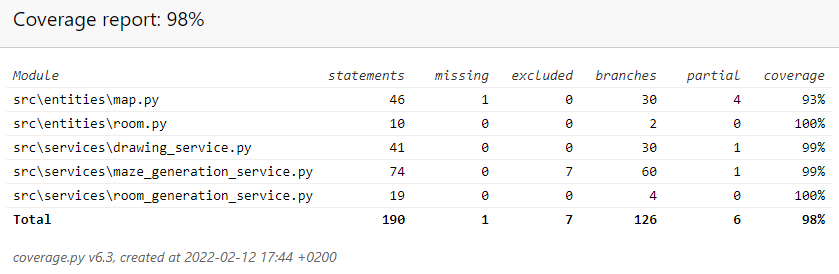
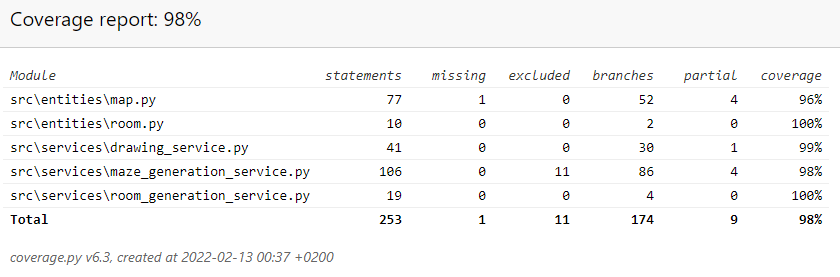
Improved features and created tests for the new additions

diff --git a/src/services/maze_generation_service.py b/src/services/maze_generation_service.py
@@ -78,8 +78,34 @@ class MazeGenerationService:
 
         self._prune_disattached_cells()
 
-    def connect_maze_to_rooms(self):
-        """Connect passage cells to room cells."""
+    def connect_maze_to_rooms(self, odds_of_loops=0.5):
+        """Connect passage cells to room cells, or rooms to other rooms
+
+        Args:
+            odds_of_loops: The odds of the dungeon having loops, between 0 and 1
+        """
+
+        if odds_of_loops < 0: # pragma: no cover
+            odds_of_loops = 0
+        elif odds_of_loops > 1: # pragma: no cover
+            odds_of_loops = 1
+        connections = self._get_connections()
+        rand_connection = random.choice(list(connections.keys()))
+        origin_region = connections[rand_connection][1]
+        self._map.occupy(rand_connection[0], rand_connection[1])
+        self._maze_cells[rand_connection[0]][rand_connection[1]] = 'p'
+        connections.pop(rand_connection)
+        """while connections:
+            rand_connection = random.choice(list(connections.keys()))
+            if (connections[rand_connection][0] == origin_region
+            and connections[rand_connection][1] == origin_region):
+                if random.random() < odds_of_loops:
+                    self._map.occupy(rand_connection[0], rand_connection[1])
+                    self._maze_cells[rand_connection[0]][rand_connection[1]] = 'p'
+            else:
+                self._map.occupy(rand_connection[0], rand_connection[1])
+                self._maze_cells[rand_connection[0]][rand_connection[1]] = 'p'
+            connections.pop(rand_connection)""" # Commented out until issue can be figured out
 
     def _get_connections(self):
         """Find all room-to-room or passage-to-room connections.
@@ -88,11 +114,16 @@ class MazeGenerationService:
         the connections and the values are tuples with IDs of the two regions the connection
         connects
         """
+
+        connections = {}
         for y_coord in range(self._map.map_height):
             for x_coord in range(self._map.map_width):
                 if (self._maze_cells[x_coord][y_coord] == 'w'
                 and self._count_adjacent_passages((x_coord, y_coord)) == 2):
-                    pass
+                    connection = self._get_connection((x_coord, y_coord))
+                    if connection:
+                        connections[(x_coord, y_coord)] = connection
+        return connections
 
     def _add_wall(self, coordinates):
         """Adds a wall to the specified coordinates
@@ -131,16 +162,49 @@ class MazeGenerationService:
         """
 
         passage_num = 0
-        if self._maze_cells[coordinates[0]][coordinates[1]+1] in ('p', 'r'):
-            passage_num += 1
-        if self._maze_cells[coordinates[0]][coordinates[1]-1] in ('p', 'r'):
-            passage_num += 1
-        if self._maze_cells[coordinates[0]+1][coordinates[1]] in ('p', 'r'):
-            passage_num += 1
-        if self._maze_cells[coordinates[0]-1][coordinates[1]] in ('p', 'r'):
-            passage_num += 1
+        if coordinates[1] + 1 < self._map.map_height and coordinates[1] - 1 >= 0:
+            if self._maze_cells[coordinates[0]][coordinates[1]+1] in ('p', 'r'):
+                passage_num += 1
+            if self._maze_cells[coordinates[0]][coordinates[1]-1] in ('p', 'r'):
+                passage_num += 1
+        if coordinates[0] + 1 < self._map.map_width and coordinates[0] - 1 >= 0:
+            if self._maze_cells[coordinates[0]+1][coordinates[1]] in ('p', 'r'):
+                passage_num += 1
+            if self._maze_cells[coordinates[0]-1][coordinates[1]] in ('p', 'r'):
+                passage_num += 1
 
         return passage_num
+
+    def _get_connection(self, coordinates):
+        """Checks whether the given cell is a connection between a room and a corridor or two rooms.
+
+        Args:
+            coordinates: (int, int) Tuple containing the coordinates of the cell to check
+
+        Returns: (int, int) Tuple containing the identifiers of the two regions
+        the connection connects, or None if the cell is not a connection
+        """
+
+        if self._maze_cells[coordinates[0]][coordinates[1]] == 'w':
+            if coordinates[1] + 1 < self._map.map_height and coordinates[1] - 1 > 0:
+                if (self._maze_cells[coordinates[0]][coordinates[1] + 1] in ('r', 'p')
+                and self._maze_cells[coordinates[0]][coordinates[1] - 1] == 'r'):
+                    return (self._map.cell_regions[(coordinates[0], coordinates[1] + 1)],
+                    self._map.cell_regions[(coordinates[0], coordinates[1] - 1)])
+                if (self._maze_cells[coordinates[0]][coordinates[1] - 1] in ('r', 'p')
+                and self._maze_cells[coordinates[0]][coordinates[1] + 1] == 'r'):
+                    return (self._map.cell_regions[(coordinates[0], coordinates[1] - 1)],
+                    self._map.cell_regions[(coordinates[0], coordinates[1] + 1)])
+            if coordinates[0] + 1 < self._map.map_width and coordinates[0] - 1 > 0:
+                if (self._maze_cells[coordinates[0] + 1][coordinates[1]] in ('r', 'p')
+                and self._maze_cells[coordinates[0] - 1][coordinates[1]] == 'r'):
+                    return (self._map.cell_regions[(coordinates[0] + 1, coordinates[1])],
+                    self._map.cell_regions[(coordinates[0] - 1, coordinates[1])])
+                if (self._maze_cells[coordinates[0] - 1][coordinates[1]] in ('r', 'p')
+                and self._maze_cells[coordinates[0] + 1][coordinates[1]] == 'r'):
+                    return (self._map.cell_regions[(coordinates[0] - 1, coordinates[1])],
+                    self._map.cell_regions[(coordinates[0] + 1, coordinates[1])])
+        return None
 
     def _find_starting_point(self):
         """Attempts to find a starting cell for a maze.

diff --git a/src/tests/services/test_maze_generation_service.py b/src/tests/services/test_maze_generation_service.py
@@ -76,3 +76,52 @@ class TestMazeGenerationService(unittest.TestCase):
         self.maze_generation_service.init_maze()
         self.maze_generation_service.generate_perfect_maze()
         self.assertNotEqual(self.maze_generation_service._maze_cells[2][2], 'p')
+
+    def test_a_passage_on_the_left_is_connected_to_a_room_on_the_right(self):
+        self.map.occupy(3,3)
+        self.maze_generation_service.init_maze()
+        self.maze_generation_service._add_passage((1,3))
+        self.assertEqual(self.maze_generation_service._get_connection((2,3)), (1,0))
+
+    def test_a_passage_on_the_right_is_connected_to_a_room_on_the_left(self):
+        self.map.occupy(1,3)
+        self.maze_generation_service.init_maze()
+        self.maze_generation_service._add_passage((3,3))
+        self.assertEqual(self.maze_generation_service._get_connection((2,3)), (1,0))
+
+    def test_a_passage_above_is_connected_to_a_room_below(self):
+        self.map.occupy(3,3)
+        self.maze_generation_service.init_maze()
+        self.maze_generation_service._add_passage((3,1))
+        self.assertEqual(self.maze_generation_service._get_connection((3,2)), (1,0))
+
+    def test_a_passage_below_is_connected_to_a_room_above(self):
+        self.map.occupy(3,1)
+        self.maze_generation_service.init_maze()
+        self.maze_generation_service._add_passage((3,3))
+        self.assertEqual(self.maze_generation_service._get_connection((3,2)), (1,0))
+
+    def test_non_walls_are_not_considered_connections(self):
+        self.maze_generation_service.init_maze()
+        self.maze_generation_service._maze_cells[1][1] = 'p'
+        self.maze_generation_service._maze_cells[1][3] = 'r'
+        self.assertIsNone(self.maze_generation_service._get_connection((1,2)))
+
+    def test_if_the_map_is_empty_there_are_no_connections(self):
+        self.maze_generation_service.init_maze()
+        self.assertEqual(len(self.maze_generation_service._get_connections()), 0)
+
+    def test_the_correct_number_of_connections_is_established(self):
+        self.map.occupy(1,1)
+        self.map.occupy(1,3)
+        self.map.occupy(3,1)
+        self.maze_generation_service.init_maze()
+        self.assertEqual(len(self.maze_generation_service._get_connections()), 2)
+
+    def test_initial_connection_is_correctly_drawn(self):
+        self.map.occupy(1,1)
+        self.map.occupy(1,3)
+        self.maze_generation_service.init_maze()
+        self.assertEqual(self.maze_generation_service._maze_cells[1][2], 'w')
+        self.maze_generation_service.connect_maze_to_rooms()
+        self.assertEqual(self.maze_generation_service._maze_cells[1][2], 'p')

diff --git a/src/entities/map.py b/src/entities/map.py
@@ -58,8 +58,20 @@ class Map:
             elif self.cells[cell] == Status.UNOCCUPIED:
                 self.cells[cell] = Status.ADJACENT_OCCUPIED
             elif self.cells[cell] == Status.OCCUPIED:
-                self.regions[self.cell_regions[cell]].append((cell_x, cell_y))
-                self.cell_regions[(cell_x, cell_y)] = self.cell_regions[cell]
+                if (cell_x, cell_y) in self.cell_regions and cell in self.cell_regions:
+                    if self.cell_regions[(cell_x, cell_y)] != self.cell_regions[cell]:
+                        new_region = min(self.cell_regions[(cell_x, cell_y)],
+                                         self.cell_regions[cell])
+                        old_region = max(self.cell_regions[(cell_x, cell_y)],
+                                         self.cell_regions[cell])
+                        self.cell_regions[(cell_x, cell_y)] = new_region
+                        self.cell_regions[cell] = new_region
+                        for value in self.regions[old_region]:
+                            self.cell_regions[value] = new_region
+                        self.regions[new_region].extend(self.regions[old_region])
+                else:
+                    self.regions[self.cell_regions[cell]].append((cell_x, cell_y))
+                    self.cell_regions[(cell_x, cell_y)] = self.cell_regions[cell]
         if (cell_x, cell_y) not in self.cell_regions:
             new_region_id = len(self.regions)
             self.regions[new_region_id] = []

diff --git a/src/tests/entities/test_map.py b/src/tests/entities/test_map.py
@@ -98,3 +98,16 @@ class TestMap(unittest.TestCase):
         self.assertTrue((1,1) in self.test_map1.regions[0])
         self.test_map1.unoccupy(1,1)
         self.assertFalse((1,1) in self.test_map1.regions[0])
+
+    def test_if_two_regions_are_combined_they_will_become_the_region_with_the_smallest_id(self):
+        self.test_map1.occupy(1,1)
+        self.test_map1.occupy(1,3)
+        self.test_map1.occupy(1,4)
+        self.test_map1.occupy(2,4)
+        self.assertEqual(self.test_map1.cell_regions[(1,3)], 1)
+        self.assertEqual(self.test_map1.cell_regions[(1,4)], 1)
+        self.assertEqual(self.test_map1.cell_regions[(2,4)], 1)
+        self.test_map1.occupy(1,2)
+        self.assertEqual(self.test_map1.cell_regions[(1,3)], 0)
+        self.assertEqual(self.test_map1.cell_regions[(1,4)], 0)
+        self.assertEqual(self.test_map1.cell_regions[(2,4)], 0)

diff --git a/src/index.py b/src/index.py
@@ -14,6 +14,7 @@ def main():
     room_max_width = 10
     room_min_height = 5
     room_max_height = 10
+    odds_of_loops = 0
     map_obj = Map(map_width, map_height)
     room_gen = RoomGenerationService(cell_width, cell_height, map_width, map_height)
     room_gen.generate_random_rooms(rooms_to_generate, room_min_width, room_max_width, room_min_height, room_max_height)
@@ -22,6 +23,7 @@ def main():
     maze_gen = MazeGenerationService(map_obj)
     maze_gen.init_maze()
     maze_gen.generate_perfect_maze()
+    maze_gen.connect_maze_to_rooms(odds_of_loops)
     drawing.draw_corridors()
     drawing.draw_grid()
     MapRepository(drawing.get_image()).save("demo/test")

diff --git a/documentation/TESTING.md b/documentation/TESTING.md
@@ -39,7 +39,9 @@ This program has been automatically tested using pytest. Always up-to-date testi
 - When two adjacent cells are occupied, they are placed in the same region
     - Tested by occupying cells (1,1) and (1,2) and checking that both cells appear in region 0
 - When an occupied cell is marked unoccupied, it's also removed from its region
-    - Tested by occupying cell (1,1) and (1,2), then unoccupying cell (1,1) and checking that it no longer appears in region 0
+    - Tested by occupying cells (1,1) and (1,2), then unoccupying cell (1,1) and checking that it no longer appears in region 0
+- When two regions are combined, the region with the smaller ID inherits the region with the larger ID
+    - Tested by occupying cells (1,1), (1,3), (1,4) and (2,4), and then occupying cell (1,2), then checking that the region ID of (1,3) and (1,4) and (2,4) becomes 0
 ### services/drawing_service
 - When a room's right edge extends beyond the right edge of the map, it's not drawn
     - Tested by drawing a 2x2 room to coordinates (49,1) on a 50x50 map and checking that it can't be drawn
@@ -80,6 +82,22 @@ This program has been automatically tested using pytest. Always up-to-date testi
     - Tested with a maze filled with walls and checking that the starting point searching function returns _None_
 - When a full maze is generated, no passages will override an already placed room
     - Tested by occupying cell (2,2) and having that act as a room, then checking that a generated maze does not replace this cell
+- When there's a passage on the left and a room on the right with a wall between them, it is considered a valid place for a connection
+    - Tested by occupying cell (3,3) on the map as a room and then adding a passage to (1,3) and checking whether the wall in between is considered a connection
+- When there's a passage on the right and a room on the left with a wall between them, it is considered a valid place for a connection
+    - Tested by occupying cell (1,3) on the map as a room and then adding a passage to (3,3) and checking whether the wall in between is considered a connection
+- When there's a passage above and a room below with a wall between them, it is considered a valid place for a connection
+    - Tested by occupying cell (3,3) on the map as a room and then adding a passage to (3,1) and checking whether the wall in between is considered a connection
+- When there's a passage below and a room above with a wall between them, it is considered a valid place for a connection
+    - Tested by occupying cell (3,1) on the map as a room and then adding a passage to (3,3) and checking whether the wall in between is considered a connection
+- If a cell is not a wall, it is not considered a valid place for a connection
+    - Tested by placing a passage at coordinates (1,1) and a room at coordinates(1,3) and checking that the unvisited cell in between is not considered a connection
+- If nothing has been added to the map, the number of connections is 0
+    - Tested by creating an empty map and checking for valid connections, expecting the number of connections to be 0
+- If there are three rooms with walls between them, the number of valid connections
+    - Tested by creating 1x1 rooms at coordinates (1,1), (1,3) and (3,1), then checking the number of valid connections, expecting 2
+- The first connection is drawn correctly
+    - Tested by creating 1x1 rooms at coordiantes (1,1) and (1,3), then checking if the cell between them becomes a passage when connections are searched
 ### services/room_generation_service
 - When a room is added, it's correctly added into the list of rooms
     - Tested by generating a room in coordinates (1,2) with the width of 3 and height of 4, and checking that it's added to a list of rooms
